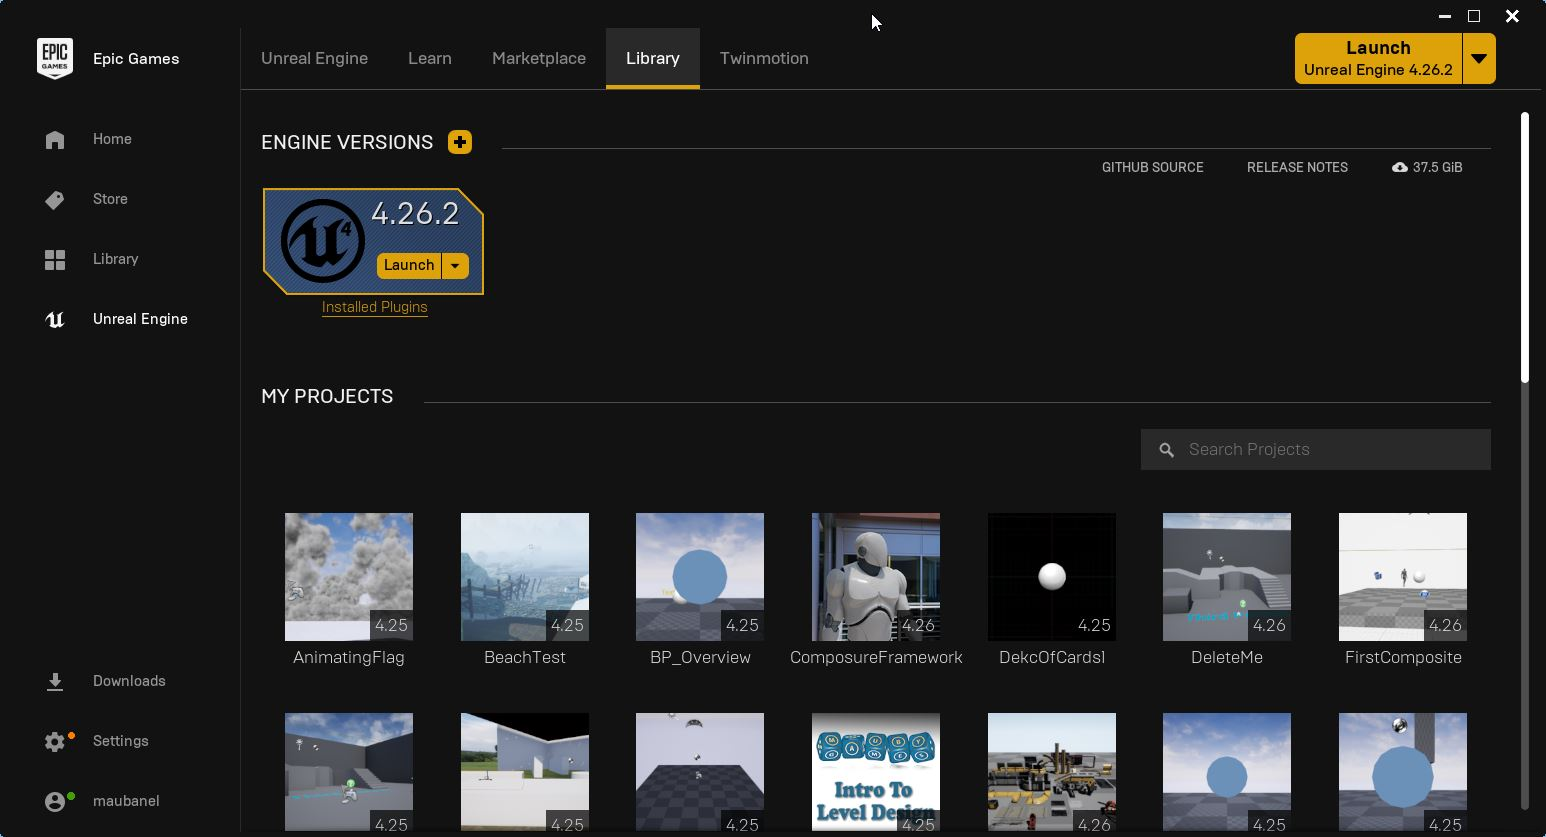
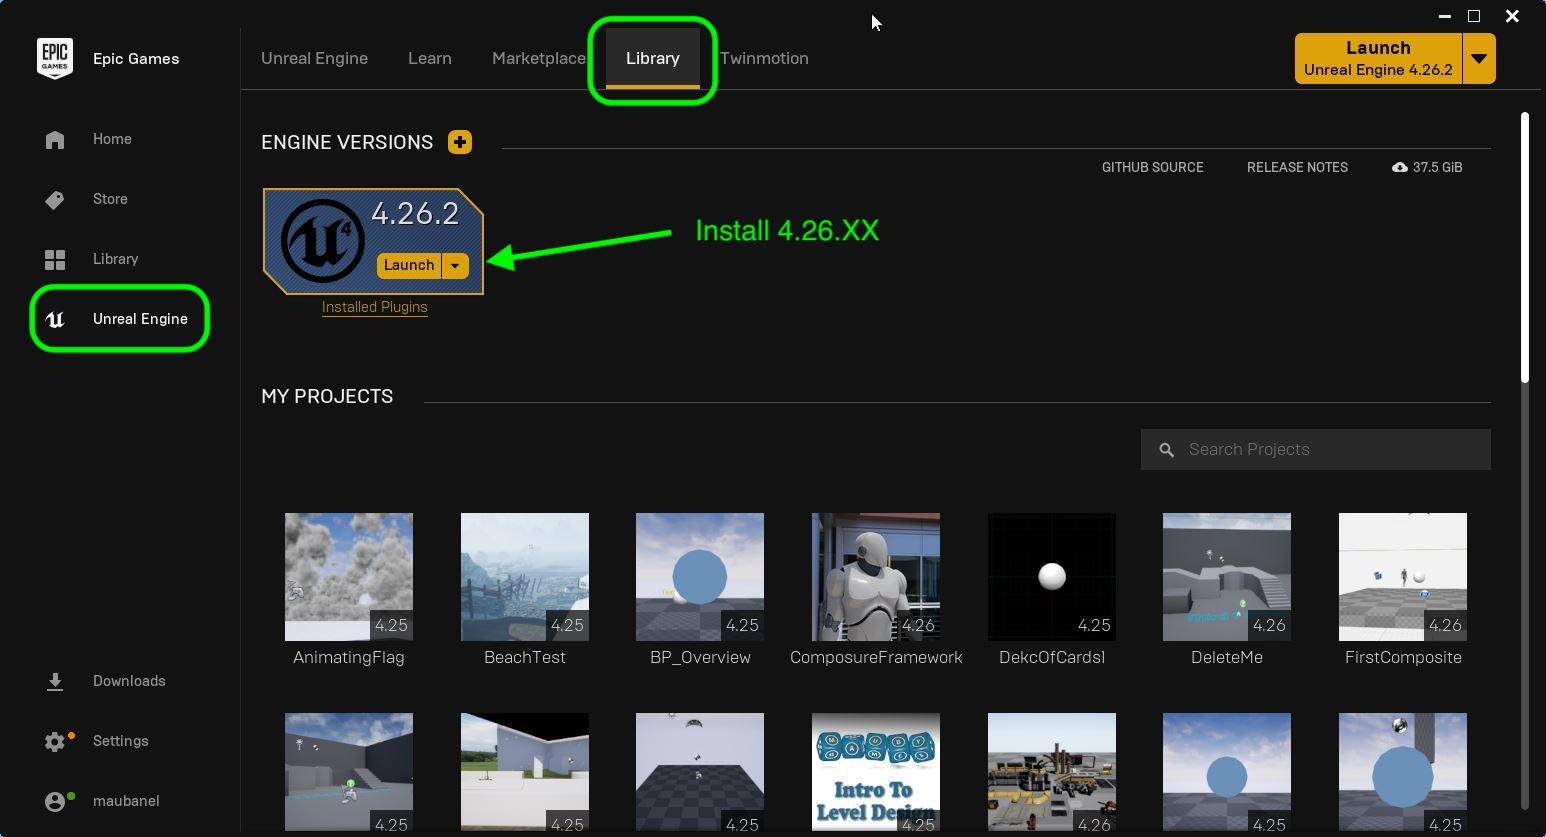
added eu4 setup

diff --git a/setup/README.md b/setup/README.md
@@ -11,3 +11,9 @@
 3.  Install UE4 4.26.XX (any version of 4.26 should work).  We will be working in 4.26 for the remainder of the class and will not be updating to any new versions.  This can found in the **Unreal Engine | Library** folder.
 
 ![Epic Games Launcher](../images/UE4_Launcher.jpg)
+
+***
+
+4. 
+
+![Epic project type selector](../images/projectType.jpg)
